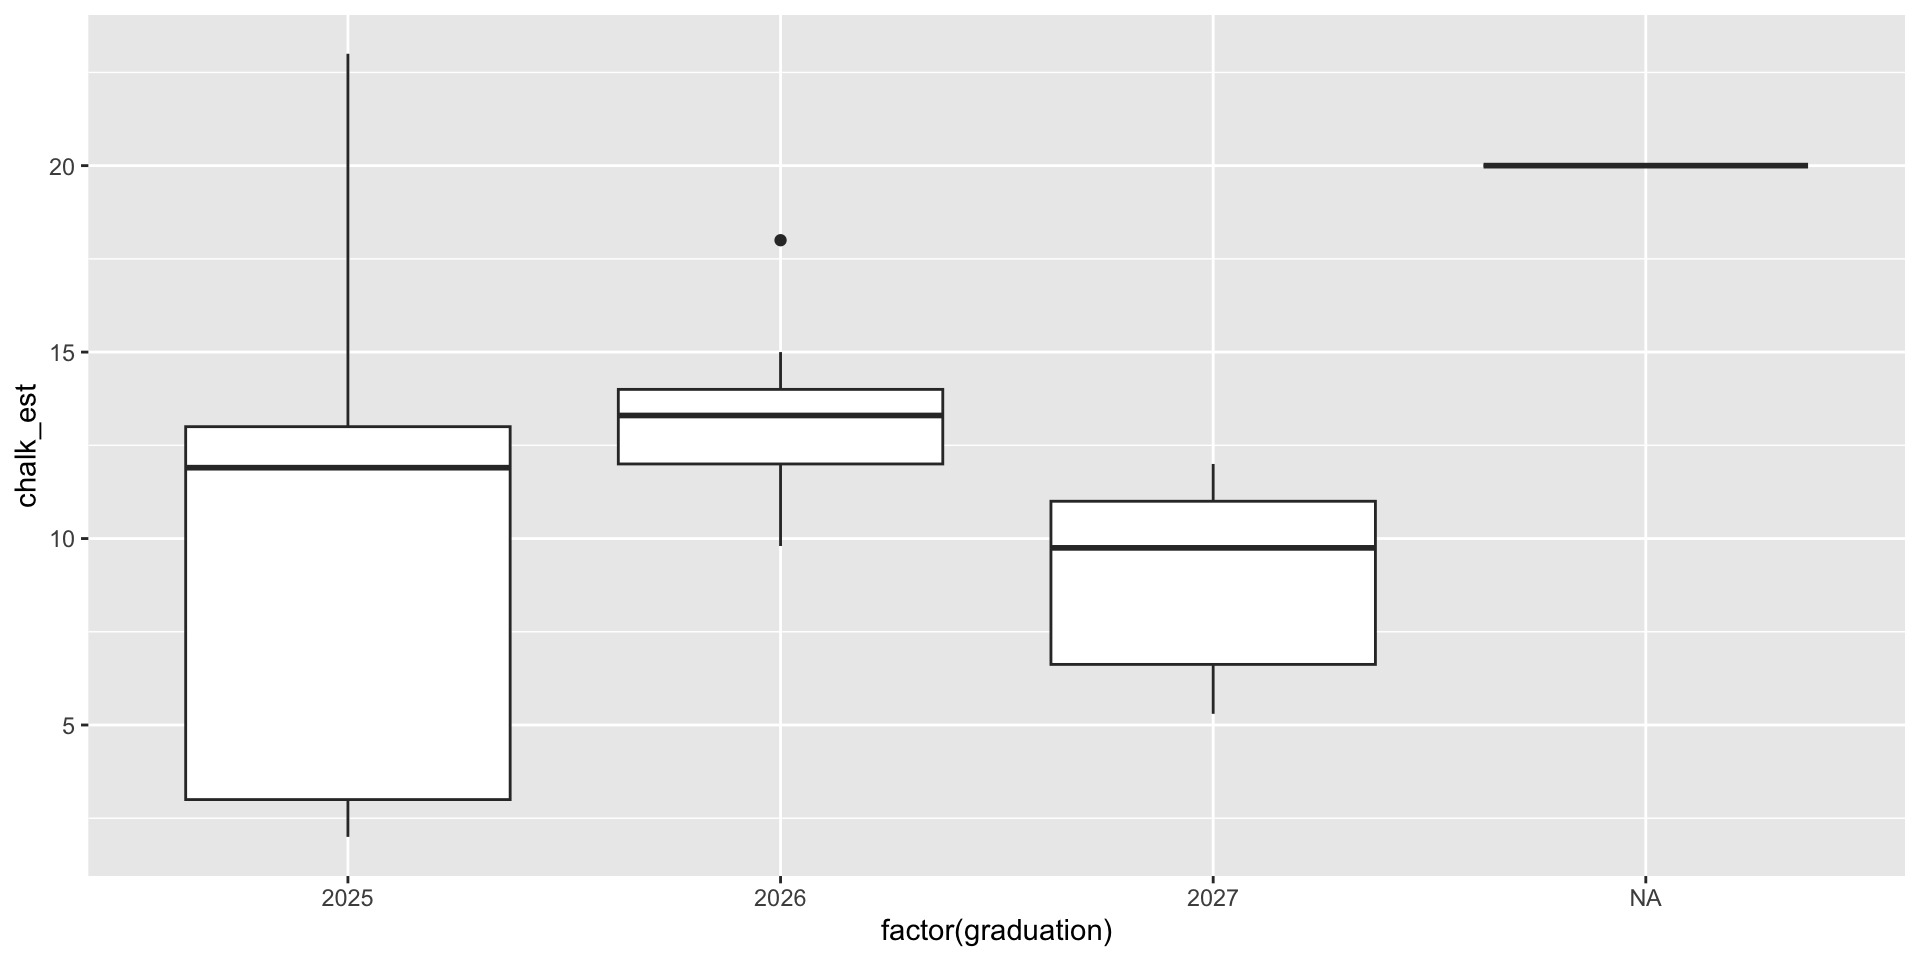
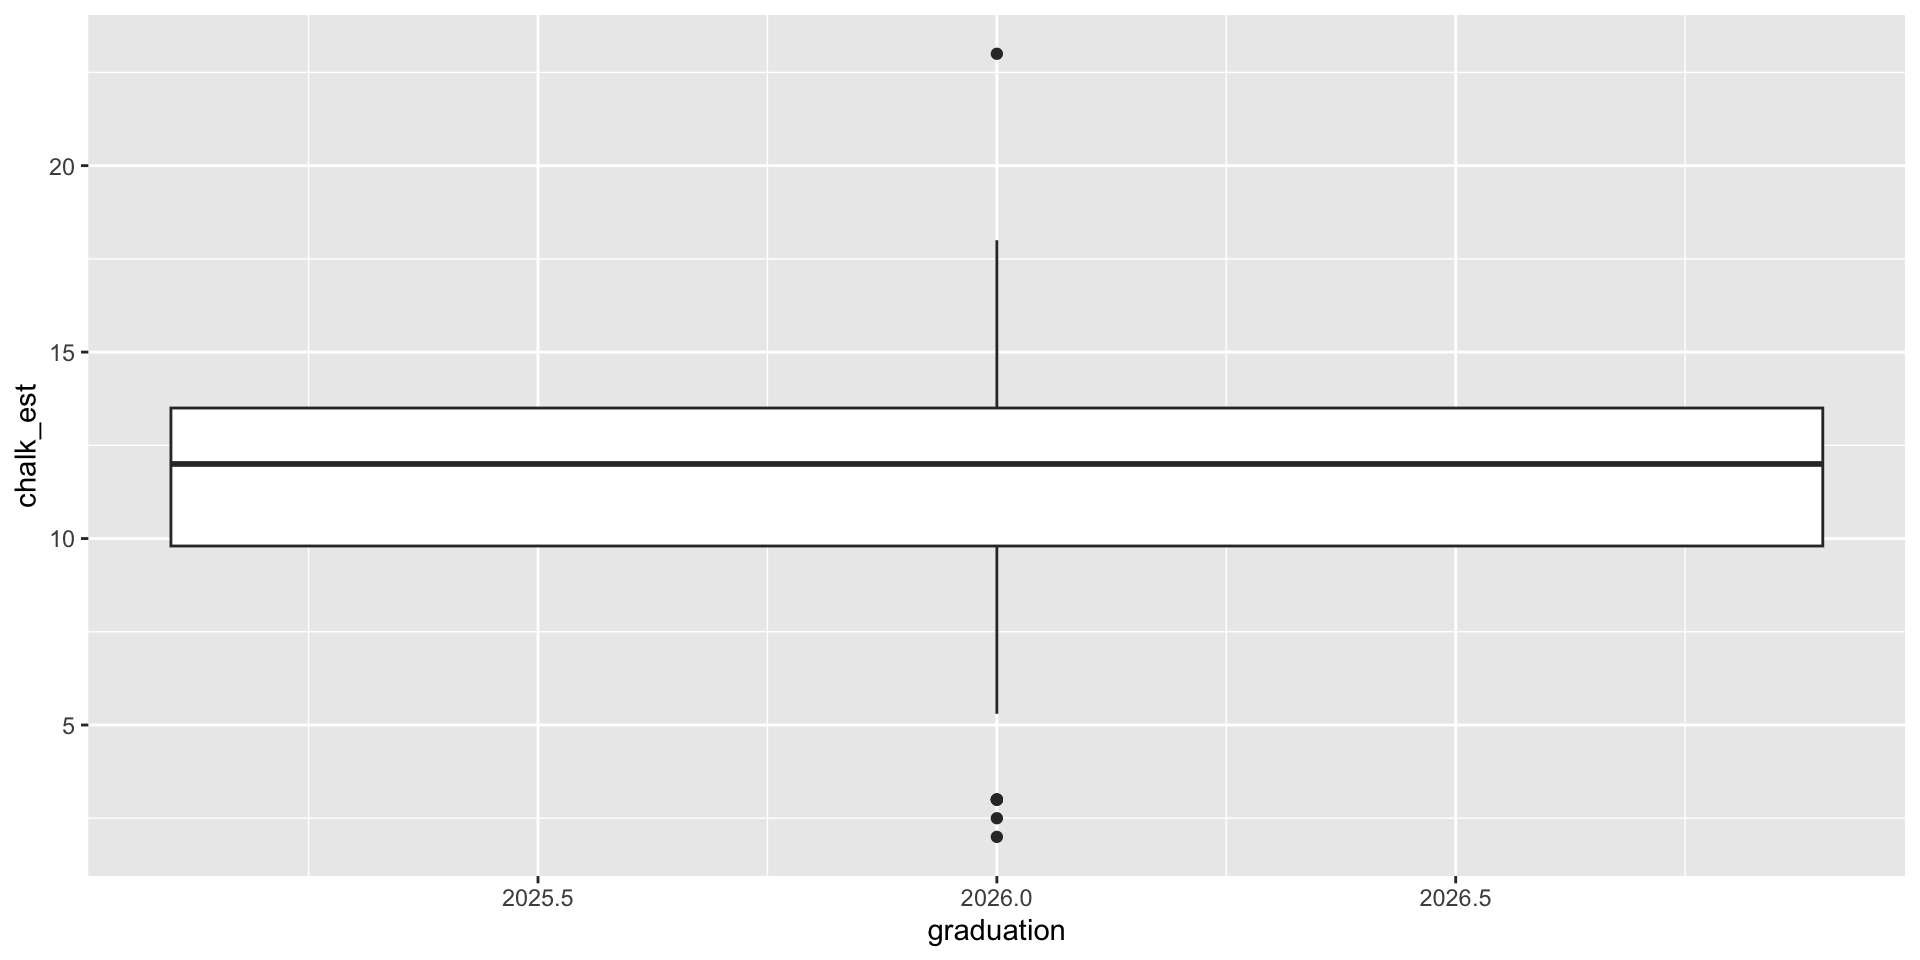
slide updates

diff --git a/docs/lectures/03_one-way-ANOVAII.html b/docs/lectures/03_one-way-ANOVAII.html
@@ -506,28 +506,36 @@ Prof Randi Garcia
 <h2>Data Cleaning</h2>
 <div class="cell">
 <div class="sourceCode cell-code" id="cb6"><pre class="sourceCode numberSource r number-lines code-with-copy"><code class="sourceCode r"><span id="cb6-1"><a></a>survey <span class="ot">&lt;-</span> survey <span class="sc">%&gt;%</span></span>
-<span id="cb6-2"><a></a>  <span class="fu">filter</span>(chalk_est <span class="sc">&lt;</span> <span class="dv">40</span>)</span></code><button title="Copy to Clipboard" class="code-copy-button"><i class="bi"></i></button></pre></div>
+<span id="cb6-2"><a></a>  <span class="fu">filter</span>(chalk_est <span class="sc">&lt;</span> <span class="dv">40</span> <span class="sc">&amp;</span> <span class="sc">!</span><span class="fu">is.na</span>(graduation))</span></code><button title="Copy to Clipboard" class="code-copy-button"><i class="bi"></i></button></pre></div>
 </div>
 </section>
-<section id="one-way-anova-2" class="slide level2">
-<h2>One-Way ANOVA</h2>
+<section id="descriptive-statistics-for-one-way-anova" class="slide level2">
+<h2>Descriptive statistics for One-Way ANOVA</h2>
 <div class="cell">
-<div class="sourceCode cell-code" id="cb7"><pre class="sourceCode numberSource r number-lines code-with-copy"><code class="sourceCode r"><span id="cb7-1"><a></a><span class="fu">qplot</span>(<span class="at">x =</span> graduation, <span class="at">y =</span> chalk_est, <span class="at">data =</span> survey, <span class="at">geom =</span> <span class="st">"boxplot"</span>)</span></code><button title="Copy to Clipboard" class="code-copy-button"><i class="bi"></i></button></pre></div>
-
+<div class="cell-output cell-output-stdout">
+<pre><code># A tibble: 3 × 4
+  graduation     n  mean    sd
+       &lt;dbl&gt; &lt;int&gt; &lt;dbl&gt; &lt;dbl&gt;
+1       2025    18 10.3   6.23
+2       2026    13 13.1   2.12
+3       2027     6  8.97  2.83</code></pre>
 </div>
-<img data-src="03_one-way-ANOVAII_files/figure-revealjs/unnamed-chunk-6-1.png" width="960" class="r-stretch"></section>
-<section id="one-way-anova-3" class="slide level2">
-<h2>One-Way ANOVA</h2>
+</div>
+</section>
+<section id="boxplots-for-one-way-anova" class="slide level2">
+<h2>Boxplots for One-Way ANOVA</h2>
 <div class="cell">
-<div class="sourceCode cell-code" id="cb8"><pre class="sourceCode numberSource r number-lines code-with-copy"><code class="sourceCode r"><span id="cb8-1"><a></a><span class="fu">qplot</span>(<span class="at">x =</span> <span class="fu">factor</span>(graduation), <span class="at">y =</span> chalk_est, <span class="at">data =</span> survey, <span class="at">geom =</span> <span class="st">"boxplot"</span>)</span></code><button title="Copy to Clipboard" class="code-copy-button"><i class="bi"></i></button></pre></div>
+<div class="sourceCode cell-code" id="cb8"><pre class="sourceCode numberSource r number-lines code-with-copy"><code class="sourceCode r"><span id="cb8-1"><a></a><span class="fu">qplot</span>(<span class="at">x =</span> graduation, <span class="at">y =</span> chalk_est, <span class="at">data =</span> survey, <span class="at">geom =</span> <span class="st">"boxplot"</span>)</span></code><button title="Copy to Clipboard" class="code-copy-button"><i class="bi"></i></button></pre></div>
 
 </div>
 <img data-src="03_one-way-ANOVAII_files/figure-revealjs/unnamed-chunk-7-1.png" width="960" class="r-stretch"></section>
-<section id="gender-bias-in-stem" class="slide level2">
-<h2>Gender Bias in STEM</h2>
-<p>One-Way Design</p>
-<p>In a randomized double-blind study (n = 127), science faculty from research-intensive universities rated the application materials of a student who was randomly assigned either a male or female name for a laboratory manager position. Faculty participants rated the male applicant as significantly more hireable than the (identical) female applicant.</p>
-</section>
+<section id="boxplots-for-one-way-anova-1" class="slide level2">
+<h2>Boxplots for One-Way ANOVA</h2>
+<div class="cell">
+<div class="sourceCode cell-code" id="cb9"><pre class="sourceCode numberSource r number-lines code-with-copy"><code class="sourceCode r"><span id="cb9-1"><a></a><span class="fu">qplot</span>(<span class="at">x =</span> <span class="fu">factor</span>(graduation), <span class="at">y =</span> chalk_est, <span class="at">data =</span> survey, <span class="at">geom =</span> <span class="st">"boxplot"</span>)</span></code><button title="Copy to Clipboard" class="code-copy-button"><i class="bi"></i></button></pre></div>
+
+</div>
+<img data-src="03_one-way-ANOVAII_files/figure-revealjs/unnamed-chunk-8-1.png" width="960" class="r-stretch"></section>
 <section id="acid-rain" class="slide level2">
 <h2>Acid Rain</h2>
 <p>One-Way Design</p>
@@ -604,7 +612,7 @@ Prof Randi Garcia
 <h2>Leafhoppers</h2>
 <p>Bar graph of treatment condition averages.</p>
 
-<img data-src="03_one-way-ANOVAII_files/figure-revealjs/unnamed-chunk-9-1.png" width="960" class="r-stretch"></section>
+<img data-src="03_one-way-ANOVAII_files/figure-revealjs/unnamed-chunk-10-1.png" width="960" class="r-stretch"></section>
 <section id="leafhoppers-1" class="slide level2">
 <h2>Leafhoppers</h2>
 <ul>
